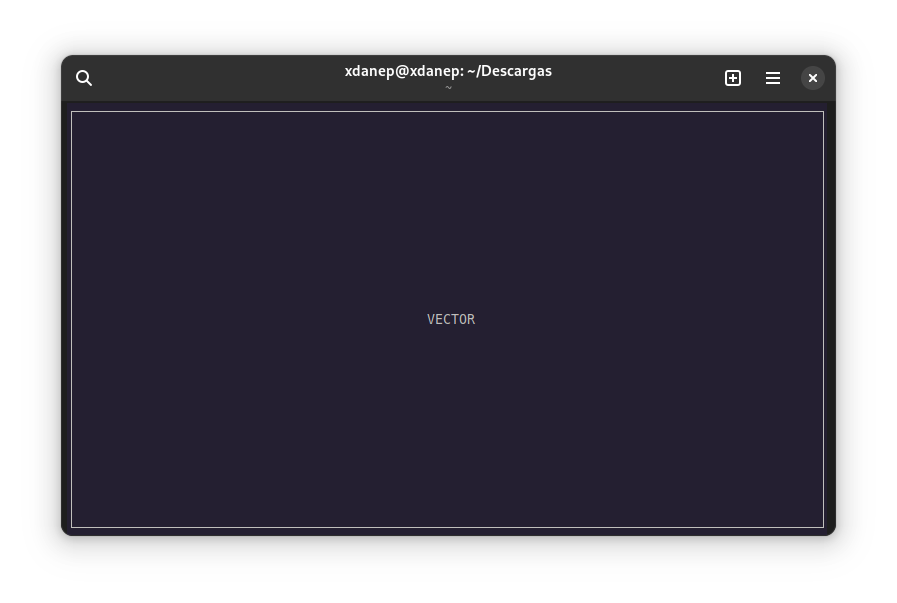
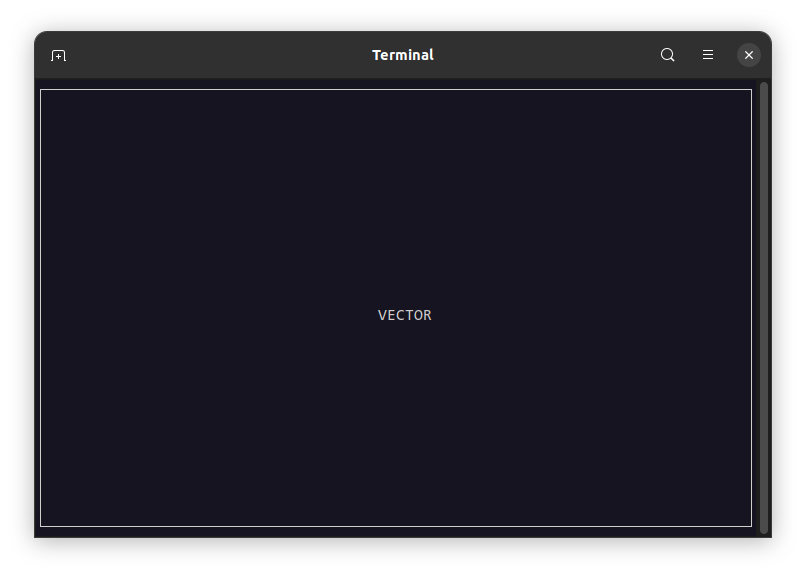
Release 1.0 reached, Vector is now a full video game

Changed region(s): [[0.031, 0.0296, 0.9615, 0.9757], [0.4653, 0.5026, 0.5583, 0.5617]]

diff --git a/src/game.c b/src/game.c
@@ -51,7 +51,7 @@ long int start()
 {
     int x = 10, y = 10;
     int key;
-    long int score = 900;
+    long int score = 0;
     int xp[100], yp[100], i, ie = 5, ie2 = 4, ie3 = 3;
 
     VECTOR Pl;

diff --git a/README.md b/README.md
@@ -3,11 +3,13 @@ Vector is a brand new open source project that you can use to build your own sna
 if you don't know a lot about programming, this base will help you to finish your project quickly.
 You can also use this code to learn about the algorithm that i used.
 
+Vector now is a complete game, you can see how it is in the screenshots below.
+
 The project have this features:
 - A simple main menu
 - A new game section 
 - Possibility to load game 
-- An options section with language and music switchers.
+- An options section with language and music switchers
 - Controls menu
 
 I hope this will be useful to you. Thanks for using Vector.
